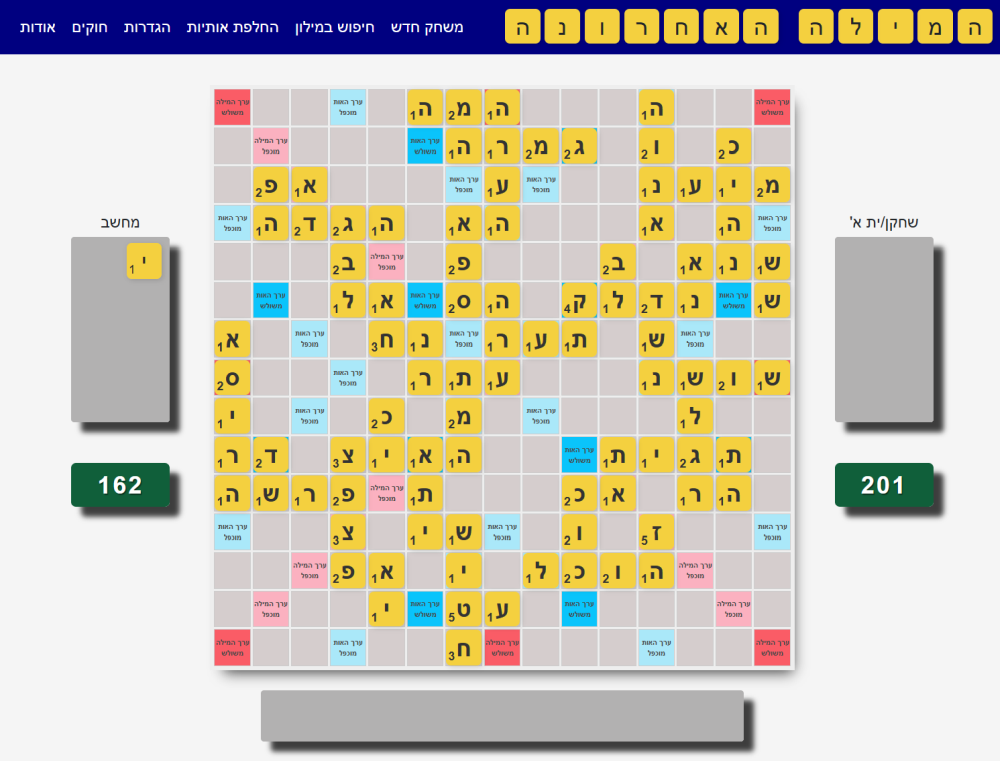
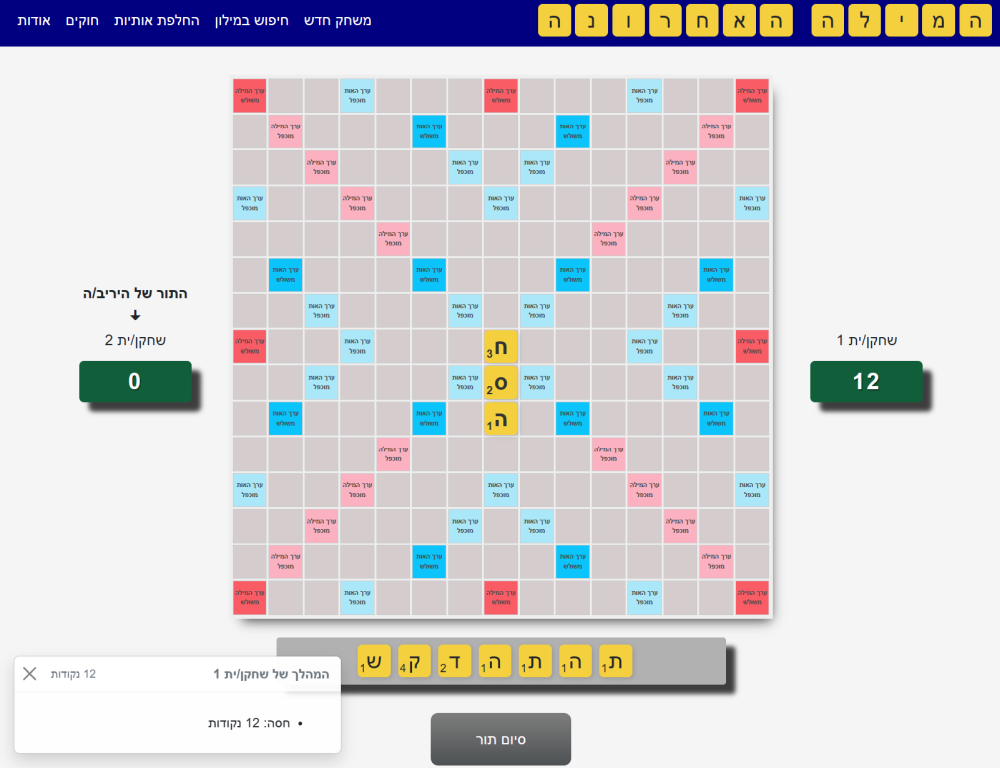
Update README

diff --git a/README.md b/README.md
@@ -4,14 +4,17 @@
 <h1>המילה האחרונה - משחק דמוי "שבץ נא" אונליין</h1>
 
 <p>
-זהו משחק דמוי "שבץ נא" אונליין לשחקן יחיד (מול המחשב) או לשני שחקנים.<br/>
-ניתן לשחק במשחק <a href="https://dvd848.github.io/the-last-word/">כאן</a>.
+זהו משחק דמוי "שבץ נא" אונליין לשני שחקנים מרוחקים (מעל גבי האינטרנט).<br/>
+ניתן לשחק במשחק <a href="">כאן</a>.
+קיימת גם גרסה נוספת של המשחק לשחק אחד (מול המחשב) או לשני שחקנים אשר חולקים מחשב מקומית, בה ניתן לשחק <a href="https://dvd848.github.io/the-last-word/">כאן</a>.
 </p>
 </div>
 
-# The Last Word
+# The Last Word (Remote)
 
-"The Last Word" is an online Scrabble™-like game in Hebrew. Users can choose to play the game individually against the computer or with a partner in a two player mode. The game is available online [here](https://dvd848.github.io/the-last-word/).
+"The Last Word" is an online Scrabble™-like game in Hebrew. This version of the game supports an online match against a remote player. 
+
+In addition, a different version of the game supports playing the game individually against the computer or with a local partner in a two player mode. That version of the game is available online [here](https://dvd848.github.io/the-last-word/).
 
 ![](screenshots/game1.png)
 
@@ -23,6 +26,8 @@
 
 ![](screenshots/game5.png)
 
+![](screenshots/game6.png)
+
 ## Dictionary
 
 By default, the game only accepts words which are included in its internal dictionary.  
@@ -30,28 +35,16 @@ Since the official Hebrew Scrabble™ is not freely available (if it even exists
 the next best option was to base the dictionary on [Hspell](http://hspell.ivrix.org.il/), the Hebrew spell-check project.
 However, this is far from being ideal for several reasons:
  1. The amount of words accepted by a spellchecker is much larger than the amount of words legal in Scrabble™. 
-    For example, a spellchecker would accept "מכוניתי" and "מכוניותיכן" while in scrabble we'd only want to accept "מכונית".
+    For example, a spellchecker would accept "מכוניתי" and "מכוניותיכן" while in scrabble we might only want to accept "מכונית".
  2. Hspell was designed to be 100% and strictly compliant with the official niqqud-less spelling rules published by the Academy of the Hebrew Language. 
     However, a few of the Academia's official spelling decisions are relatively unknown to the general public, and sometimes even disputed by popular publishers.
     For example, it won't accept "אמא" (officially, the correct word is "אימא") or "אמיתי" (officially should be "אמתי").
  3. While probably being the most extensive source of Hebrew words openly available, it is not complete, and hasn't been updated for a few years.
  4. Hspell contains also names and other types of words which shouldn't be accepted in a Scrabble™ game.
 
-Therefore, an attempt was made to select only a subset of the words accepted by Hspell. Details on the process are available [here](https://github.com/Dvd848/the-last-word/tree/main/utils/words).
-
-As a partial mitigation, it's possible to force the game to accept the words in a certain move by using an "objection". Alternatively, it's possible to disable the dictionary-check via the Settings menu of the game.  
-Suggestion for alternative dictionaries are welcome (the dictionaries must have a license compatible with "The Last Word"'s own license as listed below).
+Still, for the remote version of the game, weighing the advantages against the disadvantages, it was decided to include most of the words acceptable by Hspell, and avoid the mitigations offered in the local version of the game ("objections" and disabling the dictionary check completely). Details on the process of creating the game dictionary are available [here](https://github.com/Dvd848/the-last-word/tree/remote_game/utils/words).
 
 ## References
-
-### Computer AI
-
-The computer's AI is based on a paper by Andrew W. Appel and Guy J. Jacobson titled "[The World’s Fastest Scrabble Program](https://www.cs.cmu.edu/afs/cs/academic/class/15451-s06/www/lectures/scrabble.pdf)". For whoever's interested in diving into the algorithm, there's a good video walkthrough [here](https://www.youtube.com/watch?v=9cytoYiF9uY).
-
-Currently the AI supports two difficulty levels:
-
- * Novice: The computer randomly selects a legal move
- * Expert: The computer selects the move that will maximize the amount of points for the current turn
 
 ### Dictionary Storage
 
@@ -61,17 +54,13 @@ Such an ability is needed in order to implement the algorithm listed above.
 
 ## Alternatives
 
-There are a few alternatives for a Hebrew Scrabble™-like game online:
- * [Snopi's Bonus for one player](https://snopi.com/xGames/Bonus/BonusIntro.aspx)
- * [Snopi's Bonus for two players](https://snopi.com/xGames/Bonus/BonusIntroTwo.aspx)
- * [Bonus](https://www.old-games.org/onlineGame/bonus)
- * [Android Application](https://play.google.com/store/apps/details?id=com.beno.Words)
+There are a few alternatives for a Hebrew Scrabble™-like game online (see alternatives [here](https://github.com/Dvd848/the-last-word/blob/main/README.md)), however to date I'm 
+not aware of any which offer a remote game between two players over the internet.
 
 ## Development
 
-I developed this game as a side project in order to get familiar with Typescript.  
-All the logic is implemented on the client side and only requires a static server.
-
+I developed this game as a follow-up to the local version (in the `main` branch) in order
+to play around with AI-Assisted coding.
 The project includes a Docker file that can be used to setup the game locally.  
 
 ### Developing / Running Locally
@@ -85,8 +74,6 @@ The project includes a Docker file that can be used to setup the game locally.
  7. In another terminal, run `npm run dev` to start the server
  8. When done, execute `exit` to exit the shell
  9. Execute `docker-compose down` to stop the container
-
-For the online version hosted in GitHub Pages, changes to the Typescript files only take effect once the code is bundled and submitted to GitHub.
 
 ## License
 
